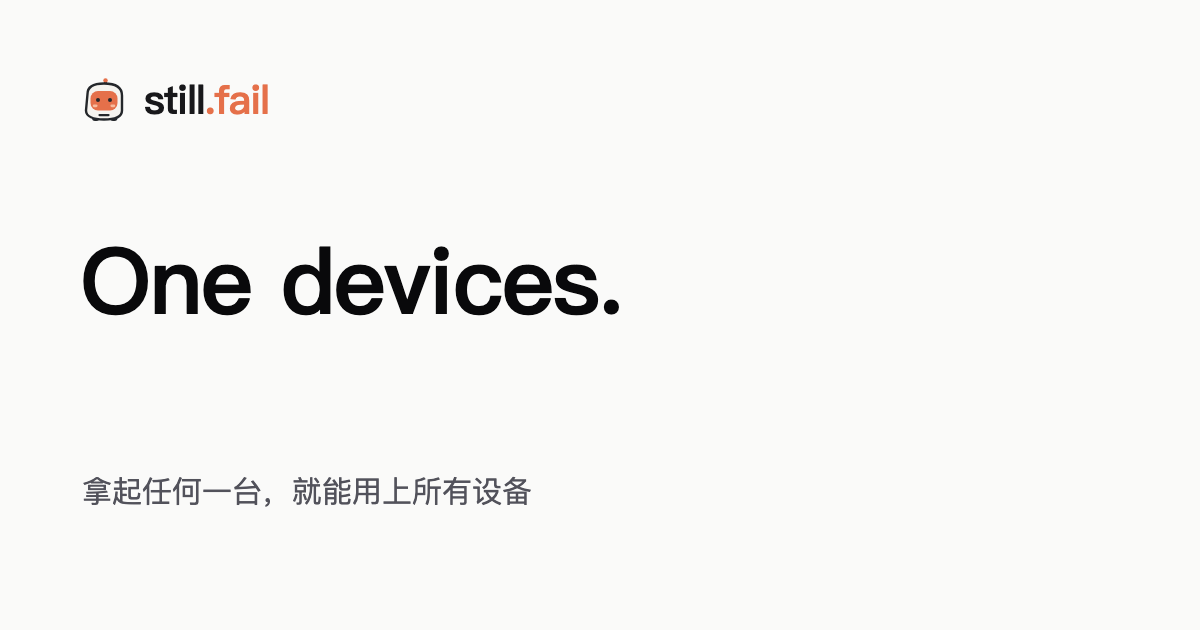
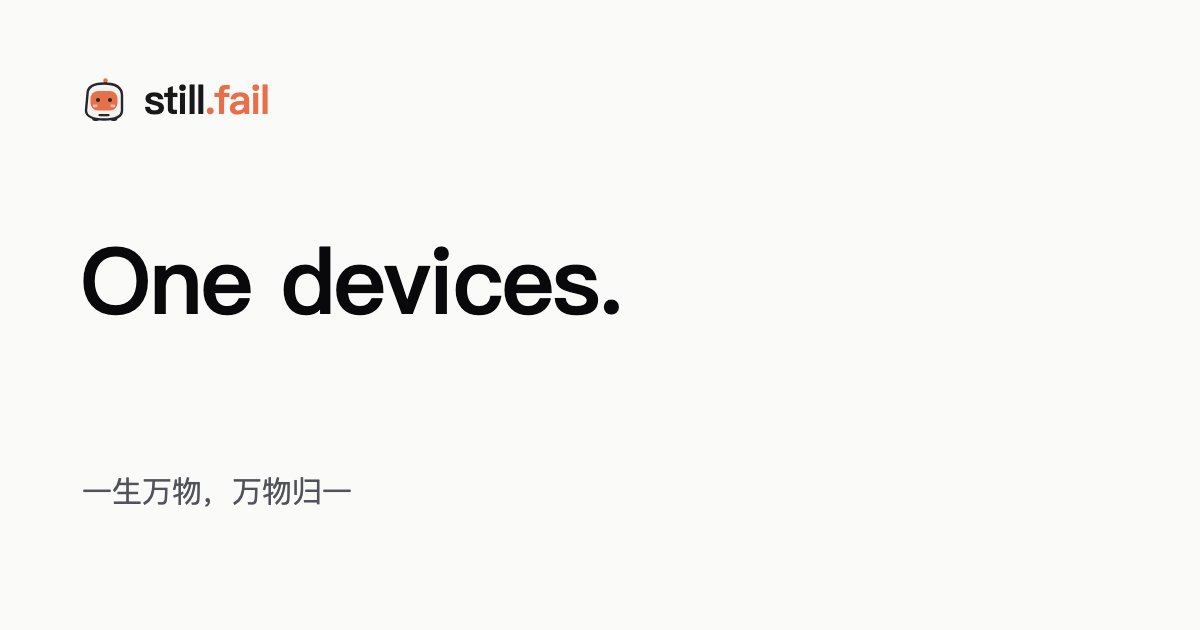
share card: the slogan 一生万物，万物归一 / All in one, all is one. (the card, the site's description and share images); the tasks agents ran across devices said so

Changed region(s): [[0.0617, 0.754, 0.4625, 0.8143]]

diff --git a/site/index.html b/site/index.html
@@ -7,9 +7,9 @@
      web/src/site/Site.tsx). -->
 <script>try{var l=localStorage.getItem("stillfail.site.lang");if(l!=="zh"&&(l==="en"||!/^zh/i.test(navigator.language||"")))location.replace("/en/"+location.search)}catch(e){}</script>
 <title>still.fail · One devices.</title>
-<meta name="description" content="still.fail 把你的手机、电脑和服务器连成一台电脑：拿起任何一台，就能用上所有设备。">
+<meta name="description" content="still.fail 把你的手机、电脑和服务器连成一台电脑。一生万物，万物归一。">
 <meta property="og:title" content="still.fail · One devices.">
-<meta property="og:description" content="拿起任何一台，就能用上所有设备。">
+<meta property="og:description" content="一生万物，万物归一。">
 <meta property="og:image" content="https://still.fail/og-image.png">
 <meta property="og:image:width" content="1200">
 <meta property="og:image:height" content="630">

diff --git a/site/en/index.html b/site/en/index.html
@@ -4,9 +4,9 @@
 <meta charset="utf-8">
 <meta name="viewport" content="width=device-width,initial-scale=1">
 <title>still.fail · One devices.</title>
-<meta name="description" content="still.fail joins your phone, computers and servers into one computer: pick up any one, and use them all.">
+<meta name="description" content="still.fail joins your phone, computers and servers into one computer. All in one, all is one.">
 <meta property="og:title" content="still.fail · One devices.">
-<meta property="og:description" content="Pick up any one, and use them all.">
+<meta property="og:description" content="All in one, all is one.">
 <meta property="og:image" content="https://still.fail/og-image-en.png">
 <meta property="og:image:width" content="1200">
 <meta property="og:image:height" content="630">

diff --git a/docs/ui-panels.md b/docs/ui-panels.md
@@ -166,7 +166,7 @@
 
 - 侧栏条的 Station（机器人）：键鼠时指针停在上面，旁边出一张卡片，取代原来那行提示。第一行是所有 station 上一共几个 agent 正在运行，下面每台 station 一行，名字在前，在做什么在行尾（几个正在运行、空闲、正在连接、离线……连不上的红字）；有 agent 在运行时，卡片底下一块「分享卡片」。按 Station 本身照旧进 Station 页。数的是每台 station 自己报的正在运行的 agent（概览的 `counts.running`，和 Station 页卡片上说的同一个数），字由 core 给（chats 视图的 `glyph.now`、各 station 的 `doing`）。
 - 小屏：Station 页最上面一张卡片，同样那行字；有 agent 在运行时按下去打开分享卡片。
-- 分享卡片是一张海报（2026-10-26 用户先后说「丑得出奇」「让人没有一点想看的欲望，来点花哨的设计和更多信息」「太普通了」「改成 xx 个 xx 订阅账号的 xx% 周额度，分天和周统计，还有当前 chat 数量」「不要小机器人」「这玩意儿是会超过 100% 的」「模型调用不需要」「不如归档 chat 多少个」「不用放 still fail 的二维码」），不随深浅色变：暖色纸底、右上一点桃色的光，墨色字，白色小卡，still.fail 的橙。从上到下：still.fail 的标志和名字（.fail 橙色）、生成的时间；订阅账号的周额度画成同心圆环（像 Apple 的活动圆环，一类订阅一圈：橙、绿、蓝），百分比是同一类各账号周额度用掉的加起来（489% 就是 4.89 个号的周额度），圆环画的是它占这一类所有账号周额度的多少（6 个号用掉 489%，环转 81.5%；用户：「489% 就是 4.89 个号的周额度」），用掉 0% 的那类不显示（「0% 不要显示」）；旁边是第一类的百分比（Xl7 72，和它的圈同色）和「2 个 Claude 订阅账号的周额度」，其他类各一行；「今天」和「近 7 天」两张小卡并排（归档的对话、折合费用；归档的对话、输入 token、折合费用，不放模型调用），下面每天一根柱子是当天归档了几个对话、柱下写日期，今天的橙色；「9 个对话正在运行 · 分布在 3 台设备」，在别的 station 上跑着任务的对话也算在运行（排队还没开始的不算），设备数只数对话所在的那几台；下面一行另算跨设备的任务（用户：「应该是有一个额外的统计，比如总共跨设备执行了多少个任务，平均每个 chat 跨设备执行多少个任务」）：「近 7 天 agent 跨设备执行了 312 个任务 · 平均每个对话 5.2 个」（用户：「应该写清楚是 agent 跨设备执行任务」），前面是多设备图标（窄的卡片上字小一号，后半句另起一行，免得「任务」被拆开）；数的是每台 station 记下的、别的 station 的对话在它上面开始跑的任务（station 的 `remote_runs`，留 90 天，随 /usage 的 `remoteRuns` 给出），平均按跑过的对话算，一个都没有时这行不出；最底下是那句「拿起任何一台，就能用上所有设备」（原来的「在任何一台上，用所有设备」用户嫌不通顺，官网的描述一起改了），不放二维码（用户：「不用放 still fail 的二维码」）。没有读到任何额度时，大数字换成正在运行的对话数。卡片窄于 520（手机上从底部弹出的那张）时：圆环小一点（96），大数字 Xl6 60（170% 也放得下），四边还是留 28，「2 个 Claude 订阅账号的周额度」和其他类那几行挪到圆环和大数字下面整行写，「今天」「近 7 天」上下摆，各部分间距收紧，不许有字被截成省略号。数据是 core 的 `fleet` 视图（views/fleet.ts）。不放对话标题、账号名。下面一个按钮，拿到的都是画面上这一块（mbui `Ctx::drawn_pixels`：宿主把上一帧重画一遍读回来，裁出它的那块，圆角在外）：电脑上是「复制图片」，粘到哪里都行；手机上（iPhone、安卓）是「保存到相册」（用户：「手机上能复制图片吗？」「是不是应该是下载」「保存」），存进系统相册（`@ui.keep` 的 `Photos`：iPhone 第一次存时系统问能不能添加照片，安卓存进「图片/still.fail」不用问），存好了提示「已保存到相册」，发小红书、朋友圈从相册里选。
+- 分享卡片是一张海报（2026-10-26 用户先后说「丑得出奇」「让人没有一点想看的欲望，来点花哨的设计和更多信息」「太普通了」「改成 xx 个 xx 订阅账号的 xx% 周额度，分天和周统计，还有当前 chat 数量」「不要小机器人」「这玩意儿是会超过 100% 的」「模型调用不需要」「不如归档 chat 多少个」「不用放 still fail 的二维码」），不随深浅色变：暖色纸底、右上一点桃色的光，墨色字，白色小卡，still.fail 的橙。从上到下：still.fail 的标志和名字（.fail 橙色）、生成的时间；订阅账号的周额度画成同心圆环（像 Apple 的活动圆环，一类订阅一圈：橙、绿、蓝），百分比是同一类各账号周额度用掉的加起来（489% 就是 4.89 个号的周额度），圆环画的是它占这一类所有账号周额度的多少（6 个号用掉 489%，环转 81.5%；用户：「489% 就是 4.89 个号的周额度」），用掉 0% 的那类不显示（「0% 不要显示」）；旁边是第一类的百分比（Xl7 72，和它的圈同色）和「2 个 Claude 订阅账号的周额度」，其他类各一行；「今天」和「近 7 天」两张小卡并排（归档的对话、折合费用；归档的对话、输入 token、折合费用，不放模型调用），下面每天一根柱子是当天归档了几个对话、柱下写日期，今天的橙色；「9 个对话正在运行 · 分布在 3 台设备」，在别的 station 上跑着任务的对话也算在运行（排队还没开始的不算），设备数只数对话所在的那几台；下面一行另算跨设备的任务（用户：「应该是有一个额外的统计，比如总共跨设备执行了多少个任务，平均每个 chat 跨设备执行多少个任务」）：「近 7 天 agent 跨设备执行了 312 个任务 · 平均每个对话 5.2 个」（用户：「应该写清楚是 agent 跨设备执行任务」），前面是多设备图标（窄的卡片上字小一号，后半句另起一行，免得「任务」被拆开）；数的是每台 station 记下的、别的 station 的对话在它上面开始跑的任务（station 的 `remote_runs`，留 90 天，随 /usage 的 `remoteRuns` 给出），平均按跑过的对话算，一个都没有时这行不出；最底下是一句看不大懂的话：中文「一生万物，万物归一」，英文「All in one, all is one.」，两句前后对着（原来的「在任何一台上，用所有设备」用户嫌不通顺，要「类似 all in one, all is one 这种」「就是要那种看不大懂的感觉」「比如中文用“一花一世界，一叶一菩提”」「一生万物」；官网的描述和分享图一起改了），不放二维码（用户：「不用放 still fail 的二维码」）。没有读到任何额度时，大数字换成正在运行的对话数。卡片窄于 520（手机上从底部弹出的那张）时：圆环小一点（96），大数字 Xl6 60（170% 也放得下），四边还是留 28，「2 个 Claude 订阅账号的周额度」和其他类那几行挪到圆环和大数字下面整行写，「今天」「近 7 天」上下摆，各部分间距收紧，不许有字被截成省略号。数据是 core 的 `fleet` 视图（views/fleet.ts）。不放对话标题、账号名。下面一个按钮，拿到的都是画面上这一块（mbui `Ctx::drawn_pixels`：宿主把上一帧重画一遍读回来，裁出它的那块，圆角在外）：电脑上是「复制图片」，粘到哪里都行；手机上（iPhone、安卓）是「保存到相册」（用户：「手机上能复制图片吗？」「是不是应该是下载」「保存」），存进系统相册（`@ui.keep` 的 `Photos`：iPhone 第一次存时系统问能不能添加照片，安卓存进「图片/still.fail」不用问），存好了提示「已保存到相册」，发小红书、朋友圈从相册里选。
 
 ## 悬停
 
